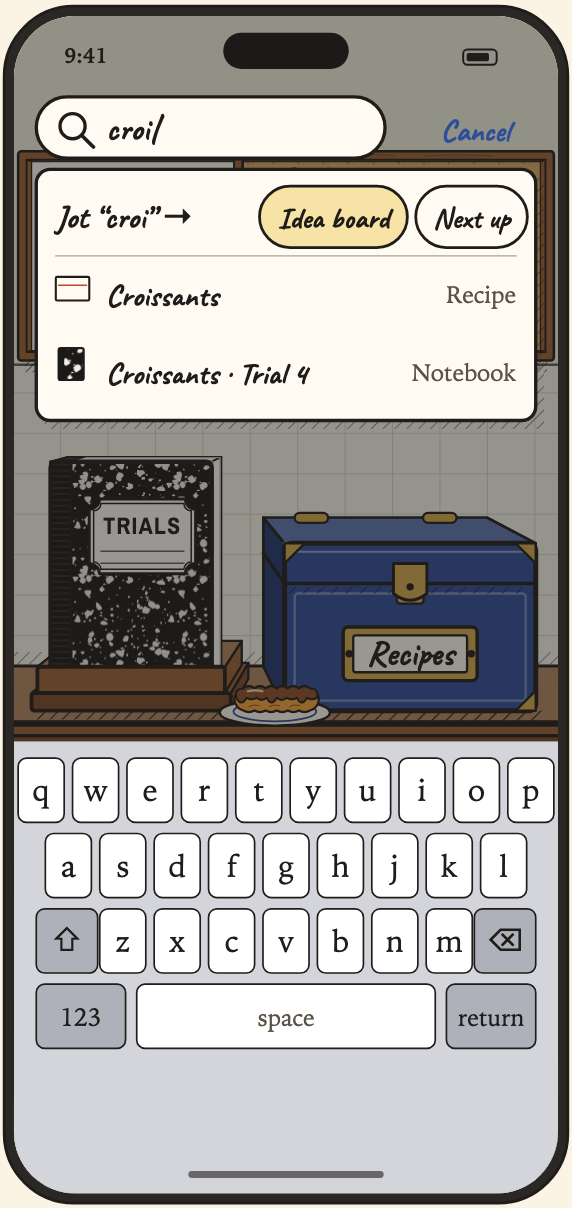
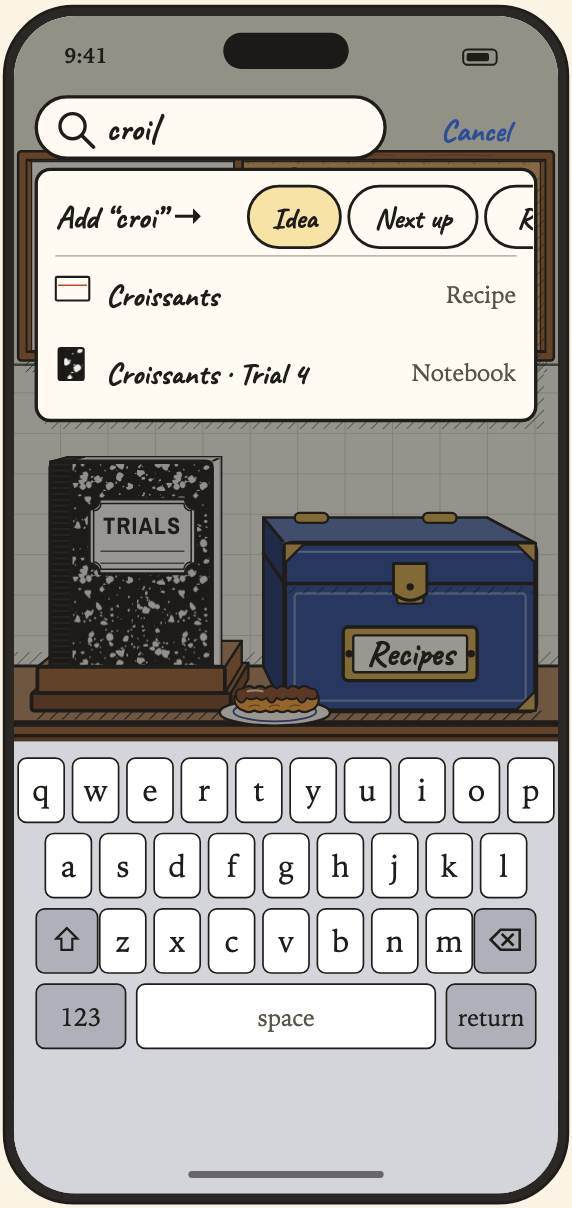
design: Phone Plate v4, Quick add and Card View keep-sideways drawn

Changed region(s): [[0.4161, 0.1531, 0.951, 0.2144], [0.0892, 0.1531, 0.3566, 0.2144]]

diff --git a/design/phone/sections/01-kitchen.html b/design/phone/sections/01-kitchen.html
@@ -3,27 +3,16 @@
   <div class="sec-body">
     <div class="phones">
       <div><h3>The kitchen by day</h3><figure id="pk-day"></figure><p class="addr">/kitchen</p>
-        <p class="note"><b>One screen, no scrolling.</b> The wall board sits on top, the counter below it (notebook, eclair, and the recipe box, the largest), then the open shelf. The fridge and window are left out; the shelf tiers keep their tape labels, and every object is well over 44 points.</p></div>
+        <p class="note"><b>One screen, no scrolling.</b> The yellow plus bottom right is Quick add. The wall board sits on top, the counter below it (notebook, eclair, and the recipe box, the largest), then the open shelf. The fridge and window are left out; the shelf tiers keep their tape labels, and every object is well over 44 points.</p></div>
       <div><h3>The kitchen in the evening</h3><figure id="pk-eve"></figure><p class="addr">/kitchen</p>
         <p class="note"><b>Same kitchen, dusk wash.</b> Only the kitchen turns evening; every open view stays in the day look.</p></div>
       <div><h3>Find bar tapped, nothing typed</h3><figure id="pk-recent"></figure><p class="addr">/kitchen</p>
         <p class="note"><b>Recently, as chips.</b> Three small chips that scroll sideways, and nothing else.</p></div>
       <div><h3>Find bar, "croi" typed</h3><figure id="pk-find"></figure><p class="addr">/kitchen</p>
-        <p class="note"><b>Three rows.</b> One jot row with its two destinations as chips, then the matching recipe and notebook entry. Cancel puts the bar back.</p></div>
-      <div><h3>Jot button tapped</h3><figure id="pk-jot"></figure><p class="addr">/kitchen</p>
-        <p class="note"><b>A bottom sheet over the kitchen.</b> Type, choose where it goes, tap Jot it. Dragging the sheet down or tapping the dim kitchen closes it.</p></div>
+        <p class="note"><b>Three rows.</b> One add row with four chips that scroll sideways, then the matching recipe and notebook entry. Cancel puts the bar back.</p></div>
+      <div><h3>Quick add (plus) tapped</h3><figure id="pk-jot"></figure><p class="addr">/kitchen</p>
+        <p class="note"><b>Quick add is a bottom sheet over the kitchen.</b> Type, pick one of four, tap Add. Recipe and Trial open their own forms after you pick them; dragging the sheet down or tapping the dim kitchen closes it.</p></div>
     </div>
-    <h3>Other names for Jot</h3>
-    <div style="display:grid;gap:22px;grid-template-columns:repeat(auto-fit,minmax(min(100%,230px),1fr));align-items:start">
-      <div style="max-width:260px"><figure id="pk-names"></figure><p class="addr">/kitchen</p></div>
-      <div style="display:grid;gap:10px;align-content:start"><table style="border-collapse:collapse;font-size:1rem;width:100%"><thead><tr style="text-align:left;color:var(--ink-soft);font-size:.85rem"><th style="padding:6px 8px">Name</th><th style="padding:6px 8px">Sheet title</th><th style="padding:6px 8px">Button</th></tr></thead><tbody id="pk-names-list"></tbody></table>
-      <p class="note"><b>Shown on the phone: Jot.</b> The find bar placeholder, the find row and the button label would follow whichever name is picked.</p></div>
-    </div>
-    <ol class="qs"><li><b>Which name?</b> Jot, Note, Scribble, Quick add, Pin it or Idea.</li></ol>
-    <h3>The jot button, six ways</h3>
-    <figure id="pk-icons"></figure>
-    <p class="note"><b>Same yellow round button, 60 px.</b> Picked (Ari, 11/17): C, the plus, like every other place you add something new. The kitchen now uses it.</p>
-    <p class="note">Settled: the plus.</p>
   </div>
 </section>
 <script>
@@ -52,7 +41,7 @@
     var w = cancel ? 250 : 270;
     return reg("rect", 'x="16" y="58" width="' + w + '" height="44" rx="22"', "var(--card)", 2.4) +
       '<circle cx="42" cy="79" r="9" style="fill:none;stroke:var(--ink);stroke-width:2.4"/><path d="M49 86 L57 94" style="stroke:var(--ink);stroke-width:2.6;stroke-linecap:round"/>' +
-      (text ? T(66, 89, text, "font:600 24px var(--font-hand);fill:var(--ink)") : T(66, 89, "Find or jot…", "font:500 24px var(--font-hand);fill:var(--ink-soft)")) +
+      (text ? T(66, 89, text, "font:600 24px var(--font-hand);fill:var(--ink)") : T(66, 89, "Find or add…", "font:500 24px var(--font-hand);fill:var(--ink-soft)")) +
       (cancel ? T(306, 90, "Cancel", "font:700 22px var(--font-hand);fill:var(--blue)") : '<circle cx="352" cy="80" r="22" style="fill:var(--orange);stroke:var(--ink);stroke-width:2.4"/>' + T(352, 86, "A", "font:700 20px var(--font-hand);fill:var(--card)", 'text-anchor="middle"'));
   }
   function dim(a) { return '<rect width="390" height="844" style="fill:#1f1d1a;opacity:' + a + '"/>'; }
@@ -78,44 +67,28 @@
     function corkI(ix, iy) { return '<rect x="' + ix + '" y="' + iy + '" width="22" height="22" style="fill:url(#corkp);stroke:var(--ink);stroke-width:1.5"/>'; }
     function cardI(ix, iy) { return reg("rect", 'x="' + ix + '" y="' + (iy + 3) + '" width="24" height="17" rx="1"', "var(--card)", 1.5) + line("M" + (ix + 2) + " " + (iy + 9) + " h20", 1.1, 1, "#c9442a"); }
     function bookI(ix, iy) { return reg("rect", 'x="' + (ix + 2) + '" y="' + iy + '" width="18" height="23" rx="1.5"', "url(#mblack)", 1.5) + '<rect x="' + (ix + 2) + '" y="' + iy + '" width="4" height="23" style="fill:#1a1917"/>'; }
-    s += T(30, y + 36, "Jot “croi” →", "font:700 23px var(--font-hand);fill:var(--ink)") + chip(176, y + 6, 106, "Idea board", true) + chip(288, y + 6, 80, "Next up");
+    s += T(30, y + 36, "Add “croi” →", "font:700 23px var(--font-hand);fill:var(--ink)") + clipTo(160, y, 372, y + row, chip(168, y + 6, 66, "Idea", true) + chip(240, y + 6, 92, "Next up") + chip(338, y + 6, 90, "Recipe") + chip(434, y + 6, 80, "Trial"));
     s += line("M30 " + (y + row) + " H360", 1, 0.4);
     s += cardI(30, y + row + 12) + T(66, y + row + 36, "Croissants", "font:600 22px var(--font-hand);fill:var(--ink)") + T(360, y + row + 34, "Recipe", "15px var(--font-body);fill:var(--ink-soft)", 'text-anchor="end"');
     s += bookI(30, y + 2 * row + 10) + T(66, y + 2 * row + 36, "Croissants · Trial 4", "font:600 22px var(--font-hand);fill:var(--ink)") + T(360, y + 2 * row + 34, "Notebook", "15px var(--font-body);fill:var(--ink-soft)", 'text-anchor="end"');
     return card(3 * row + 12, s);
   }
-  function jotSheet(title, btn) { title = title || "Jot an idea"; btn = btn || "Jot it";
+  function jotSheet() {
     var y = 430, s = dim(0.5) + hatch(8, y + 6, 390, 400, 0.4) + reg("rect", 'x="0" y="' + y + '" width="390" height="420" rx="22"', "var(--card)", 2.4);
-    s += reg("rect", 'x="165" y="' + (y + 10) + '" width="60" height="6" rx="3"', "var(--rule)", 1.2) + T(24, y + 56, title, "font:700 30px var(--font-hand);fill:var(--ink)");
-    s += reg("rect", 'x="20" y="' + (y + 74) + '" width="350" height="100" rx="10"', "var(--paper)", 2) + T(44, y + 112, "Jot an idea…", "font:500 24px var(--font-hand);fill:var(--ink-soft)") + line("M36 " + (y + 124) + " V" + (y + 100), 2.2);
-    s += T(24, y + 206, "Goes to", "font:600 15px var(--font-body);fill:var(--ink-soft)");
-    s += reg("rect", 'x="20" y="' + (y + 218) + '" width="170" height="48" rx="24"', "var(--custard)", 2.4) + T(105, y + 250, "Idea board", "font:700 23px var(--font-hand);fill:var(--ink)", 'text-anchor="middle"') +
-      reg("rect", 'x="200" y="' + (y + 218) + '" width="170" height="48" rx="24"', "var(--card)", 2) + T(285, y + 250, "Next up", "font:600 23px var(--font-hand);fill:var(--ink)", 'text-anchor="middle"');
-    s += reg("rect", 'x="20" y="' + (y + 284) + '" width="350" height="52" rx="26"', "var(--yellow)", 2.6) + T(195, y + 319, btn, "font:700 26px var(--font-hand);fill:var(--ink)", 'text-anchor="middle"');
+    s += reg("rect", 'x="165" y="' + (y + 10) + '" width="60" height="6" rx="3"', "var(--rule)", 1.2) + T(24, y + 54, "Quick add", "font:700 30px var(--font-hand);fill:var(--ink)");
+    s += reg("rect", 'x="20" y="' + (y + 68) + '" width="350" height="84" rx="10"', "var(--paper)", 2) + line("M34 " + (y + 84) + " V" + (y + 108), 2.2) + T(42, y + 104, "What’s new?", "font:500 24px var(--font-hand);fill:var(--ink-soft)");
+    [["Idea", 0, 0, 1], ["Next up", 1, 0], ["Recipe", 0, 1], ["Trial", 1, 1]].forEach(function (c) { var px = 20 + c[1] * 180, py = y + 168 + c[2] * 58;
+      s += reg("rect", 'x="' + px + '" y="' + py + '" width="170" height="48" rx="24"', c[3] ? "var(--custard)" : "var(--card)", c[3] ? 2.4 : 2) + T(px + 85, py + 32, c[0], "font:" + (c[3] ? 700 : 600) + " 23px var(--font-hand);fill:var(--ink)", 'text-anchor="middle"'); });
+    s += reg("rect", 'x="20" y="' + (y + 296) + '" width="350" height="52" rx="26"', "var(--yellow)", 2.6) + T(195, y + 331, "Add", "font:700 26px var(--font-hand);fill:var(--ink)", 'text-anchor="middle"');
     return s;
-  }
-  function icons() {
-    var g = [], base = function (cx, cy) { return hatch(cx - 22, cy + 18, 50, 10, 0.5) + reg("circle", 'cx="' + cx + '" cy="' + cy + '" r="30"', "var(--yellow)", 2.6); }, out = "";
-    g.push(function (cx, cy) { return phJot(cx, cy); });
-    g.push(function (cx, cy) { return base(cx, cy) + reg("path", 'd="M' + cx + " " + (cy + 16) + " L" + (cx - 10) + " " + (cy - 2) + " L" + (cx - 7) + " " + (cy - 16) + " H" + (cx + 7) + " L" + (cx + 10) + " " + (cy - 2) + ' Z"', "var(--card)", 2.2) + line("M" + cx + " " + (cy + 14) + " V" + (cy - 5), 1.8) + '<circle cx="' + cx + '" cy="' + (cy - 6) + '" r="2.4" style="fill:var(--ink)"/>'; });
-    g.push(function (cx, cy) { return base(cx, cy) + line("M" + (cx - 13) + " " + cy + " H" + (cx + 13) + " M" + cx + " " + (cy - 13) + " V" + (cy + 13), 5.5); });
-    g.push(function (cx, cy) { var x0 = cx - 15, y0 = cy - 15, x1 = cx + 15, y1 = cy + 15; return base(cx, cy) + reg("path", 'd="M' + x0 + " " + y0 + " H" + x1 + " V" + (y1 - 10) + " L" + (x1 - 10) + " " + y1 + " H" + x0 + ' Z"', "var(--card)", 2.2) + reg("path", 'd="M' + x1 + " " + (y1 - 10) + " H" + (x1 - 10) + " V" + y1 + ' Z"', "var(--custard)", 1.8) + line("M" + (x0 + 5) + " " + (y0 + 9) + " H" + (x1 - 5) + " M" + (x0 + 5) + " " + (y0 + 17) + " H" + (x1 - 12), 1.8); });
-    g.push(function (cx, cy) { return base(cx, cy) + '<g transform="rotate(35 ' + cx + " " + cy + ')">' + line("M" + cx + " " + (cy + 4) + " V" + (cy + 19), 2.4) + reg("path", 'd="M' + (cx - 8) + " " + (cy - 8) + " L" + (cx - 5) + " " + (cy + 4) + " H" + (cx + 5) + " L" + (cx + 8) + " " + (cy - 8) + ' Z"', "var(--orange)", 2.2) + reg("rect", 'x="' + (cx - 11) + '" y="' + (cy - 16) + '" width="22" height="9" rx="3"', "var(--orange)", 2.2) + "</g>"; });
-    g.push(function (cx, cy) { return base(cx, cy) + reg("path", 'd="M' + (cx - 16) + " " + (cy - 12) + " H" + (cx + 16) + " Q" + (cx + 20) + " " + (cy - 12) + " " + (cx + 20) + " " + (cy - 8) + " V" + (cy + 6) + " Q" + (cx + 20) + " " + (cy + 10) + " " + (cx + 16) + " " + (cy + 10) + " H" + (cx - 4) + " L" + (cx - 13) + " " + (cy + 18) + " V" + (cy + 10) + " H" + (cx - 16) + " Q" + (cx - 20) + " " + (cy + 10) + " " + (cx - 20) + " " + (cy + 6) + " V" + (cy - 8) + " Q" + (cx - 20) + " " + (cy - 12) + " " + (cx - 16) + " " + (cy - 12) + ' Z"', "var(--card)", 2.2) + line("M" + (cx - 11) + " " + (cy - 3) + " H" + (cx + 11), 2); });
-    g.forEach(function (f, i) { var cx = 60 + i * 110; out += f(cx, 52) + T(cx, 112, "ABCDEF"[i], "font:700 26px var(--font-hand);fill:var(--ink)", 'text-anchor="middle"'); });
-    return '<svg viewBox="0 0 670 130" role="img" aria-label="The jot button six ways, A to F">' + out + "</svg>";
   }
   PLATE.add(function () {
     var put = function (id, inner, label, opt) { document.getElementById(id).innerHTML = phone(inner, label, opt); };
     put("pk-day", kitchen(false) + findBar() + phJot(336, 776), "The kitchen on a phone by day");
     put("pk-eve", kitchen(true) + '<defs><linearGradient id="pkdusk" x1="0" y1="0" x2="0" y2="1"><stop offset="0" stop-color="#2f2a45"/><stop offset="1" stop-color="#2f2a45" stop-opacity="0"/></linearGradient></defs><rect width="390" height="130" style="fill:url(#pkdusk)"/>' + findBar() + phJot(336, 776), "The kitchen on a phone in the evening", { dark: true });
     put("pk-recent", kitchen(false) + dim(0.45) + recentList() + keyboard() + findBar("|", true), "The find bar tapped with nothing typed: a row of Recently chips");
-    put("pk-names", kitchen(false) + findBar() + jotSheet(), "The jot sheet, for comparing names");
-    document.getElementById("pk-names-list").innerHTML = [["Jot", "Jot an idea", "Jot it"], ["Note", "New note", "Save note"], ["Scribble", "Scribble an idea", "Scribble it"], ["Quick add", "Quick add", "Add"], ["Pin it", "Pin an idea", "Pin it"], ["Idea", "New idea", "Keep it"]].map(function (r, i) {
-      return '<tr style="border-top:1px solid var(--rule)"><td style="padding:8px"><b>' + r[0] + '</b></td><td style="padding:8px">' + r[1] + '</td><td style="padding:8px">' + r[2] + "</td></tr>"; }).join("");
-    document.getElementById("pk-icons").innerHTML = icons();
     put("pk-find", kitchen(false) + dim(0.45) + findList() + keyboard() + findBar("croi|", true), "The find bar tapped with croi typed, the keyboard up and one list under the bar");
-    put("pk-jot", kitchen(false) + findBar() + jotSheet(), "The jot button tapped: a bottom sheet with a text box, two choices and a Jot it button");
+    put("pk-jot", kitchen(false) + findBar() + jotSheet(), "Quick add tapped: a bottom sheet with a text box, four choices and an Add button");
   });
 })();
 </script>

diff --git a/design/phone/sections/02-box.html b/design/phone/sections/02-box.html
@@ -20,21 +20,19 @@
     </div>
 
     <h3>Card View</h3>
-    <ol class="qs"><li><b>Question for Ari:</b> Card View: B sideways, A any way, or both?</li></ol>
-    <p class="note"><b>Ari leans to the sideways card</b> because ingredients and steps show at once, so B is first. A (decision 003: any way you hold it) is second and is still Claude's pick for "does not fight the phone". In every figure the step you are on is a yellow band across the whole step with a bold "▶ you are here".</p>
+    <p class="note"><b>Card View follows the way you hold the phone,</b> and the "⟲ Keep sideways" pill in the card's header row keeps it sideways when the phone is upright. The setting is remembered (Ari, 11/17; can be revisited). In every figure the step you are on is a yellow band across the whole step with a bold "▶ you are here". The sun keeps the screen awake; the red X goes back to the box.</p>
     <div class="pbcv">
-      <div class="pbb"><h3>B · always a sideways card</h3><figure id="pb-b"></figure><p class="addr">/box/croissants</p>
-        <p class="note">The recipe opens as a landscape index card, drawn sideways on the upright phone so you turn the phone to read it. The card in the lid stays a preview. No rotate prompt (decision 004).</p></div>
-      <div class="pba">
-        <div class="pbah"><div><h3>A · upright</h3><figure id="pb-a"></figure><p class="addr">/box/croissants</p></div>
-        <div><h3>A · held sideways</h3><figure id="pb-a-side"></figure><p class="addr">/box/croissants</p></div></div>
-        <p class="note">Tap the card and Card View covers the screen however you hold it. Upright, the ingredients fold into a pinned band and the steps scroll under it; sideways, two columns. The sun keeps the screen awake; the red X goes back to the box.</p>
-      </div>
+      <div><h3>Held upright</h3><figure id="pb-cv-up"></figure><p class="addr">/box/croissants/card</p>
+        <p class="note">The ingredients fold into a band pinned at the top and the steps scroll under it. The pill is off.</p></div>
+      <div><h3>Held sideways</h3><figure id="pb-cv-side"></figure><p class="addr">/box/croissants/card</p>
+        <p class="note">Two columns, ingredients left and steps right, each scrolling on its own. The pill is on here (yellow); turning the phone upright keeps this layout.</p></div>
+      <div><h3>Kept sideways, phone upright</h3><figure id="pb-cv-kept"></figure><p class="addr">/box/croissants/card</p>
+        <p class="note">With the pill on, the sideways card is drawn turned on the upright phone, so you turn the phone to read it. There is no rotate prompt (decision 004). Tap the pill again to go back to following the phone.</p></div>
     </div>
   </div>
 </section>
 <style>.pbo{display:grid;gap:18px;grid-template-columns:repeat(2,minmax(0,1fr));align-items:start;max-width:620px}.pbo>div,.pbcv>div,.pbah>div,.pba{display:grid;gap:6px;align-content:start;min-width:0}
-.pbcv{display:grid;gap:22px;grid-template-columns:minmax(0,1fr) minmax(0,3fr);align-items:start}.pbah{display:grid;gap:18px;grid-template-columns:minmax(0,1fr) minmax(0,2fr);align-items:start}.pbcv figure,.pbo figure{border:0;background:none}
+.pbcv{display:grid;gap:22px;grid-template-columns:minmax(0,1fr) minmax(0,2fr) minmax(0,1fr);align-items:start}.pbah{display:grid;gap:18px;grid-template-columns:minmax(0,1fr) minmax(0,2fr);align-items:start}.pbcv figure,.pbo figure{border:0;background:none}
 @media(max-width:900px){.pbcv,.pbah,.pbo{grid-template-columns:minmax(0,1fr)}}</style>
 <script>
 (function () {
@@ -53,6 +51,7 @@
     for (var i = 0; i < 8; i++) { var a = i * Math.PI / 4, c = Math.cos(a), d = Math.sin(a); s += line("M" + (cx + c * 9.5).toFixed(1) + " " + (cy + d * 9.5).toFixed(1) + " L" + (cx + c * 13.5).toFixed(1) + " " + (cy + d * 13.5).toFixed(1), 2); } return s; }
   function dots(cx, cy) { return reg("circle", 'cx="' + cx + '" cy="' + cy + '" r="20"', "var(--card)", 2.2) + [-8, 0, 8].map(function (d) { return '<circle cx="' + (cx + d) + '" cy="' + cy + '" r="2.6" style="fill:var(--ink)"/>'; }).join(""); }
   function redx(cx, cy) { return R(cx - 20, cy - 20, 40, 40, RED, 2.4, 8) + line("M" + (cx - 8) + " " + (cy - 8) + " L" + (cx + 8) + " " + (cy + 8) + " M" + (cx + 8) + " " + (cy - 8) + " L" + (cx - 8) + " " + (cy + 8), 3.6, 1, "#fff"); }
+  function kp(x, y, on) { return R(x, y, 150, 40, on ? "var(--yellow)" : "var(--card)", 2.2, 20) + T(x + 75, y + 26, "⟲ Keep sideways", U(15, 700), MID); }
   function pl(x, y, w, h, t, fs) { return R(x, y, w, h, "var(--card)", 2.2, h / 2) + T(x + w / 2, y + h / 2 + fs * 0.33, t, H(fs, 700), MID); }
 
   function U(sz, w, col) { return "font:" + (w || 400) + " " + sz + "px var(--font-body);fill:" + (col || "var(--ink)"); }
@@ -115,16 +114,16 @@
   var HERE = function (x, y, anchor) { return T(x, y, "▶ you are here", "font:800 16px var(--font-label);fill:var(--ink);letter-spacing:.04em", anchor || ""); };
   function stepsUp() {
     var s = "";
-    CR.steps.forEach(function (t, i) { var top = 188 + i * 92, y = top + 44, here = i === 2;
-      if (here) s += band(0, top + 2, 390, 84) + HERE(66, top + 74);
-      s += line("M16 " + (top + 90) + " H374", 1.2, 1, RULE) + reg("circle", 'cx="38" cy="' + (y - 7) + '" r="16"', "var(--card)", 1.8) + T(38, y - 1, i + 1, H(20, 700), MID) + T(66, y, t, H(24)); });
-    return s + R(379, 192, 5, 548, "var(--rule)", 0.8, 2.5) + R(379, 192, 5, 240, SOFT, 0.8, 2.5);
+    CR.steps.forEach(function (t, i) { var top = 232 + i * 84, y = top + 42, here = i === 2;
+      if (here) s += band(0, top + 2, 390, 78) + HERE(66, top + 70);
+      s += line("M16 " + (top + 82) + " H374", 1.2, 1, RULE) + reg("circle", 'cx="38" cy="' + (y - 7) + '" r="16"', "var(--card)", 1.8) + T(38, y - 1, i + 1, H(20, 700), MID) + T(66, y, t, H(24)); });
+    return s + R(379, 236, 5, 500, "var(--rule)", 0.8, 2.5) + R(379, 236, 5, 220, SOFT, 0.8, 2.5);
   }
   function cvUp() {
-    return T(16, 86, CR.t, H(32, 700)) + T(16, 110, CR.src, H(17, 600, SOFT)) + dots(246, 76) + sun(296, 76, true) + redx(346, 76) + hatch(16, 170, 358, 6, 0.5) + R(16, 122, 358, 48, "var(--custard)", 2.4, 6) + T(32, 154, "Ingredients (7) ▾", H(25, 700)) + stepsUp() + pl(125, 752, 140, 46, "Turn over", 22);
+    return T(16, 86, CR.t, H(32, 700)) + T(16, 110, CR.src, H(17, 600, SOFT)) + dots(246, 76) + sun(296, 76, true) + redx(346, 76) + kp(16, 120, false) + hatch(16, 218, 358, 6, 0.5) + R(16, 170, 358, 48, "var(--custard)", 2.4, 6) + T(32, 202, "Ingredients (7) ▾", H(25, 700)) + stepsUp() + pl(125, 752, 140, 46, "Turn over", 22);
   }
   function cvSide() {
-    var s = T(44, 42, CR.t, H(32, 700)) + T(210, 40, CR.src, H(18, 600, SOFT)) + dots(704, 38) + sun(752, 38, true) + redx(800, 38) + line("M0 64 H844", 1.6, 0.8) + line("M378 74 V372", 1.4, 1, RULE) + T(44, 92, "INGREDIENTS (7)", LB(13)) + T(398, 92, "DIRECTIONS", LB(13));
+    var s = T(44, 42, CR.t, H(32, 700)) + T(210, 40, CR.src, H(18, 600, SOFT)) + kp(532, 18, true) + dots(704, 38) + sun(752, 38, true) + redx(800, 38) + line("M0 64 H844", 1.6, 0.8) + line("M378 74 V372", 1.4, 1, RULE) + T(44, 92, "INGREDIENTS (7)", LB(13)) + T(398, 92, "DIRECTIONS", LB(13));
     CR.ing.forEach(function (t, i) { var y = 128 + i * 38, tick = i === 1;
       s += line("M44 " + (y + 9) + " H360", 1.2, 1, RULE) + R(44, y - 17, 22, 22, tick ? "var(--yellow)" : "var(--card)", 1.8, 4) + (tick ? line("M49 " + (y - 6) + " l5 6 l9 -12", 2.6) : "") + T(78, y, t, H(23)) + (tick ? line("M78 " + (y - 6) + " h" + (t.length * 9.2), 2, 0.7) : ""); });
     CR.steps.forEach(function (t, i) { var y = 128 + i * 46, here = i === 2; if (here) s += band(380, y - 30, 464, 42) + HERE(800, y - 3, END);
@@ -132,7 +131,7 @@
     return s;
   }
   function cvB() {
-    var W = 744, H0 = 350, s = R(0, 0, W, H0, "var(--page)", 2.4, 6) + T(28, 50, CR.t, H(38, 700)) + T(28, 78, CR.src, H(19, 600, SOFT)) + T(28, 102, CR.meta, H(19, 600, SOFT)) + dots(610, 34) + sun(660, 34, true) + redx(712, 34) + line("M1 116 H" + (W - 1), 1.8, 0.85, "var(--orange-text)") + T(28, 140, "INGREDIENTS", LB(13)) + T(322, 140, "DIRECTIONS", LB(13)) + line("M300 126 V" + (H0 - 12), 1.2, 1, RULE);
+    var W = 744, H0 = 350, s = R(0, 0, W, H0, "var(--page)", 2.4, 6) + T(28, 50, CR.t, H(38, 700)) + T(28, 78, CR.src, H(19, 600, SOFT)) + T(28, 102, CR.meta, H(19, 600, SOFT)) + kp(440, 14, true) + dots(610, 34) + sun(660, 34, true) + redx(712, 34) + line("M1 116 H" + (W - 1), 1.8, 0.85, "var(--orange-text)") + T(28, 140, "INGREDIENTS", LB(13)) + T(322, 140, "DIRECTIONS", LB(13)) + line("M300 126 V" + (H0 - 12), 1.2, 1, RULE);
     CR.ing.forEach(function (t, i) { var y = 168 + i * 25; s += line("M1 " + (y + 5) + " H" + (W - 1), 1.2, 1, RULE) + T(28, y, t, H(20)); });
     CR.steps.forEach(function (t, i) { var y = 168 + i * 25; if (i === 2) s += band(310, y - 19, 433, 27) + HERE(736, y - 1, END); s += T(322, y, (i + 1) + ". " + t, H(20)); });
     s += pl(604, 296, 120, 44, "Turn over", 20);
@@ -154,9 +153,9 @@
     put("pb-fan", L1() + drawerOut(2), "Tab C tapped: small index cards fan up from behind the tabs");
     put("pb-menu", L1(true) + lip() + menuFull(), "The menu in the body font: account name, Add recipe, Simple list switch, Sign out");
     put("pb-simple", simple(), "Simple list: letter headings and recipe titles, no wood", { bg: "var(--page)" });
-    put("pb-b", cvB(), "Card View B: the recipe as a landscape index card drawn sideways on the upright phone");
-    put("pb-a", cvUp(), "Card View A upright: pinned ingredients band, steps scroll under, one step marked you are here", { bg: "var(--page)" });
-    put("pb-a-side", cvSide(), "Card View A held sideways: ingredients left, steps right", { land: true, bg: "var(--page)" });
+    put("pb-cv-up", cvUp(), "Card View held upright: pinned ingredients band, steps scroll under, one step marked you are here, Keep sideways pill off", { bg: "var(--page)" });
+    put("pb-cv-side", cvSide(), "Card View held sideways: ingredients left, steps right, Keep sideways pill on", { land: true, bg: "var(--page)" });
+    put("pb-cv-kept", cvB(), "Keep sideways on with the phone upright: the sideways card drawn turned on the upright phone");
   });
 })();
 </script>

diff --git a/design/phone/sections/00-questions.html b/design/phone/sections/00-questions.html
@@ -1,11 +1,9 @@
 <section id="q-sec" aria-labelledby="q-h">
-  <span class="label" id="q-h">00 · Questions for Ari (version 3)</span>
+  <span class="label" id="q-h">00 · Ready for sign-off (version 4)</span>
   <div class="sec-body">
     <ol class="qs">
-      <li><b>Card View:</b> <a href="#pb-b">B always sideways</a> (you lean this way), <a href="#pb-a">A any way you hold it</a>, or both?</li>
-      <li><b>What the add button adds:</b> today it adds an idea or a Next up line. Should it also offer a new recipe (the box's add) and a new trial?</li>
-      <li><b>Its name:</b> Add, Quick add, Note or Jot (<a href="#pk-names">all six</a>)? Changing it later is easy: it is a word in a few places, not in any web address.</li>
+      <li><b>Sign off?</b> Every question is answered. If the page looks right, this is the phone layout.</li>
     </ol>
-    <p class="note">Version 3: the recipe box is the drawer (shorter wooden strip, the + in the strip beside "▲ A–Z", no box label when pulled out, tabs stay short when a letter is tapped, the fan is small index cards). The add button is a plus everywhere. Decision 003 is updated to match.</p>
+    <p class="note"><b>Settled 11/17:</b> the recipe box is a <a href="#pb-o1">drawer</a> with the + in its wooden strip; <a href="#pb-cv-side">Card View</a> follows the phone, with a Keep sideways button; the yellow plus is <a href="#pk-jot">Quick add</a> (an idea, a Next up line, a recipe or a trial); <a href="#pk-recent">Recently</a> is one row of chips in the find list. Later: workshop the fan, show the recipe in the notebook, decide the saving rules before the editing Task issues.</p>
   </div>
 </section>

diff --git a/design/phone/sections/05-pages.html b/design/phone/sections/05-pages.html
@@ -70,7 +70,7 @@
   function pale() { return '<rect width="390" height="844" style="fill:var(--paper)"/>' + hatch(0, 0, 390, 844, 0.06); }
   function findBar(open) {
     return reg("rect", 'x="16" y="58" width="270" height="44" rx="22"', "var(--card)", 2.4) +
-      '<circle cx="42" cy="79" r="9" style="fill:none;stroke:var(--ink);stroke-width:2.4"/><path d="M49 86 L57 94" style="stroke:var(--ink);stroke-width:2.6;stroke-linecap:round"/>' + T(66, 89, "Find or jot…", "font:500 24px var(--font-hand);fill:var(--ink-soft)") +
+      '<circle cx="42" cy="79" r="9" style="fill:none;stroke:var(--ink);stroke-width:2.4"/><path d="M49 86 L57 94" style="stroke:var(--ink);stroke-width:2.6;stroke-linecap:round"/>' + T(66, 89, "Find or add…", "font:500 24px var(--font-hand);fill:var(--ink-soft)") +
       (open ? '<circle cx="352" cy="80" r="26" style="fill:var(--yellow);stroke:var(--ink);stroke-width:2.4"/>' : "") +
       '<circle cx="352" cy="80" r="22" style="fill:var(--orange);stroke:var(--ink);stroke-width:2.4"/>' + T(352, 86, "A", "font:700 20px var(--font-hand);fill:var(--card)", MID);
   }

diff --git a/design/phone/sections/03-notebook.html b/design/phone/sections/03-notebook.html
@@ -4,7 +4,7 @@
     <p class="note"><b>One ruled page at a time.</b> The wide book shows two pages; the phone shows the page you are on, Croissants trial 4. The notebook is a paid-plan object, drawn here for a developer.</p>
     <div class="phones">
       <div><h3>The page</h3><figure id="pn-page"></figure>
-        <p class="note"><b>Trial 4, written up.</b> The yellow camera button takes the jot button's place so they do not stack. Tap "‹ Trial 3" or "Trial 5 ›", or swipe, to turn the page; this replaces the address.</p>
+        <p class="note"><b>Trial 4, written up.</b> The yellow camera button takes the Quick add button’s place so they do not stack. Tap "‹ Trial 3" or "Trial 5 ›", or swipe, to turn the page; this replaces the address.</p>
         <p class="addr">/notebook/croissants/trial-4</p></div>
       <div><h3>A photo taped in</h3><figure id="pn-photo"></figure>
         <p class="note"><b>Taken, then taped on.</b> The photo lands on the page with a caption and two bits of tape, as on the wide page.</p>

diff --git a/design/phone/sections/04-views.html b/design/phone/sections/04-views.html
@@ -191,7 +191,7 @@
   PLATE.add(function () {
     function put(id, inner, label) { document.getElementById(id).innerHTML = phone(inner, label); }
     put("pv-wb-clear", whiteboard(1), "The whiteboard after Clear done: the ticked line is gone, the rest unchanged");
-    put("pv-wb", whiteboard(), "The whiteboard on a phone: Next up as one column of handwritten lines, a jot button bottom right");
+    put("pv-wb", whiteboard(), "The whiteboard on a phone: Next up as one column of handwritten lines, the Quick add button bottom right");
     put("pv-ideas", ideas(), "The idea board on a phone: idea notes tacked on cork in one scrolling column");
     put("pv-log", log(), "The recipe log on a phone: one scrolling column of dated entries on a clipboard sheet");
     put("pv-cb", shelf(), "The cookbook shelf on a phone: three spines in one row, New cookbook below");

diff --git a/design/phone/base/phone.js b/design/phone/base/phone.js
@@ -25,7 +25,7 @@ function phTop(title, opt) {
     T(16, 84, "‹ Kitchen", "font:700 22px var(--font-hand);fill:var(--blue)") +
     T(374, 84, title, "font:700 26px var(--font-hand);fill:var(--ink)", 'text-anchor="end"');
 }
-/* The add button (was the jot pencil; Ari 11/17: a plus, like every other place you add something new).
+/* The Quick add button (was the jot pencil; Ari 11/17: a plus, like every other place you add something new).
    Yellow, round, bottom right, on the kitchen and on views where it covers nothing. */
 function phJot(x, y) { x = x || 330; y = y || 750;
   return hatch(x - 22, y + 18, 50, 10, 0.5) + reg("circle", 'cx="' + x + '" cy="' + y + '" r="30"', "var(--yellow)", 2.6) +

diff --git a/design/phone/BRIEF.md b/design/phone/BRIEF.md
@@ -9,7 +9,7 @@ cream fridge, composition-book notebook, wooden recipe box). Do not invent new f
 ## Folder: /Users/ari/codes/trial-and-eclair/design/phone/
 - `base/phone.js` — READ IT. `phone(inner, label, opt)` draws one phone (390 × 844 upright, or `{land:true}` 844 × 390)
   and clips your drawing to the screen. Safe area y 54–810, side gutter 16. `phTop(title)` is the top bar of a view
-  that takes over the screen ("‹ Kitchen" back + title). `phJot()` is the yellow jot button bottom right.
+  that takes over the screen ("‹ Kitchen" back + title). `phJot()` is the yellow Quick add button (a plus) bottom right.
   `phAddr("/whiteboard")` gives the web address line to put under a figure. Page CSS classes: `.phones` (a grid of
   upright phones), `.land` (a grid of sideways ones). Do not edit phone.js.
 - `base/core.js`, `kitchen.js`, `base/frame.js` — the Plate XI drawing helpers and kitchen. Every function is a global
@@ -24,7 +24,7 @@ cream fridge, composition-book notebook, wooden recipe box). Do not invent new f
 - Upright phone. Tapping a kitchen object takes over the whole screen (decision 004). No rotate prompt.
 - Back: "‹ Kitchen" top left and the phone's own Back both return to the kitchen; moving inside a view (next card,
   next trial) does not add Back steps (decision 005). Put the web address under each figure with `phAddr`.
-- The find-or-jot bar sits at the top of the KITCHEN only. The jot button (yellow, bottom right) shows on the kitchen
+- The find-or-add bar sits at the top of the KITCHEN only. The Quick add button (yellow plus, bottom right) shows on the kitchen
   and on views where it covers nothing.
 - The recipe box view has no header and its own small "+" (decision 003: `/Users/ari/codes/trial-and-eclair/docs/decisions/003-phone-recipe-box-design.md`).
 - Open views use the day look. Evening is the kitchen only.

diff --git a/docs/design/PLAN.md b/docs/design/PLAN.md
@@ -158,8 +158,8 @@ Phone Plate v1 (2026-11-17): https://claude.ai/artifact/8tvBLbfxEsEL48AzuMNeGy, 
 - [x] Stacked phone kitchen, jot button bottom right (drawn: day, evening, find list, jot sheet)
 - [x] Phone recipe card: any way you hold it, plus a button to keep it sideways (Ari, 2026-11-17; flexible, can revisit)
 - [x] Recipe box: the drawer (Ari, 2026-11-17; decision 003 updated)
-- [x] Add button: a plus named Quick add; on the kitchen it adds an idea, a Next up line, a recipe or a trial (Ari, 2026-11-17). Not drawn yet
-- [ ] Draw: Quick add sheet with four choices, Card View keep-sideways button
+- [x] Add button: a plus named Quick add; on the kitchen it adds an idea, a Next up line, a recipe or a trial (Ari, 2026-11-17). Drawn in v4
+- [x] Draw: Quick add sheet with four choices, Card View keep-sideways button (v4)
 - [x] Phone notebook with the camera button (drawn)
 - [x] Every other view and page on a phone (drawn)
 - [x] "Recently" on a phone: one chip row at the top of the find list (Ari, 2026-11-17)
